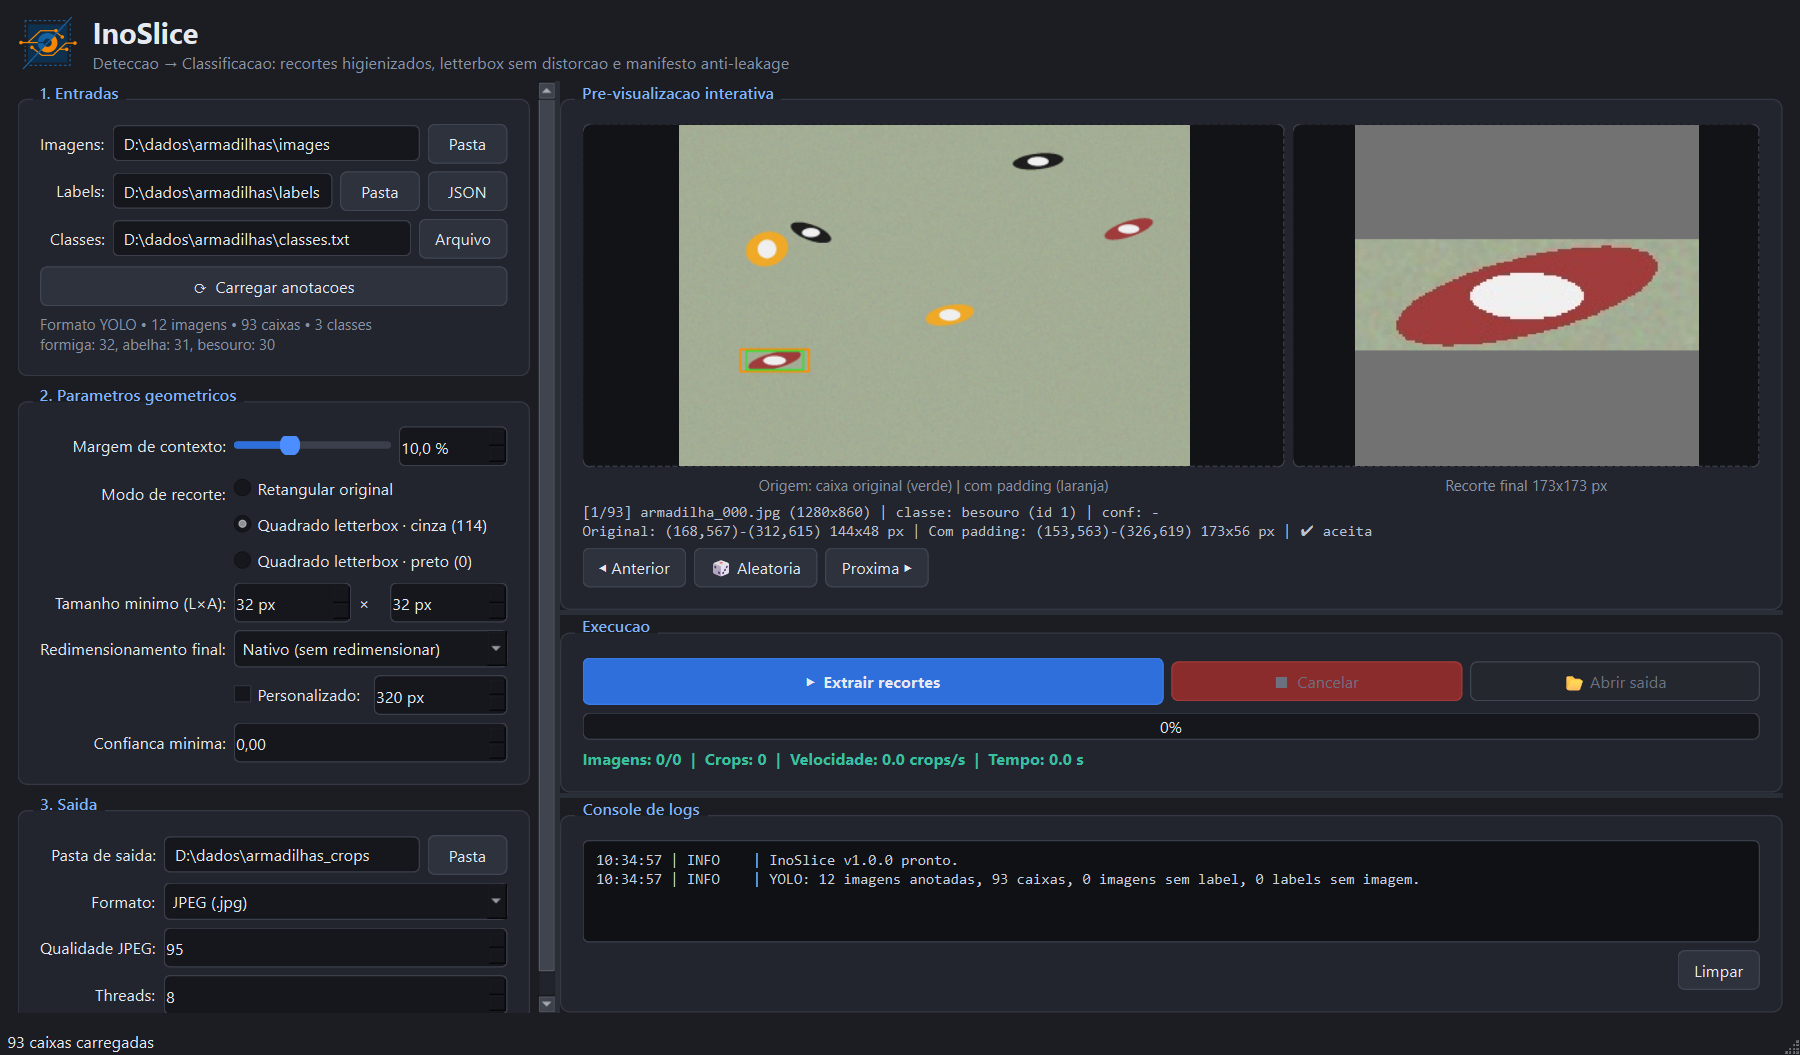
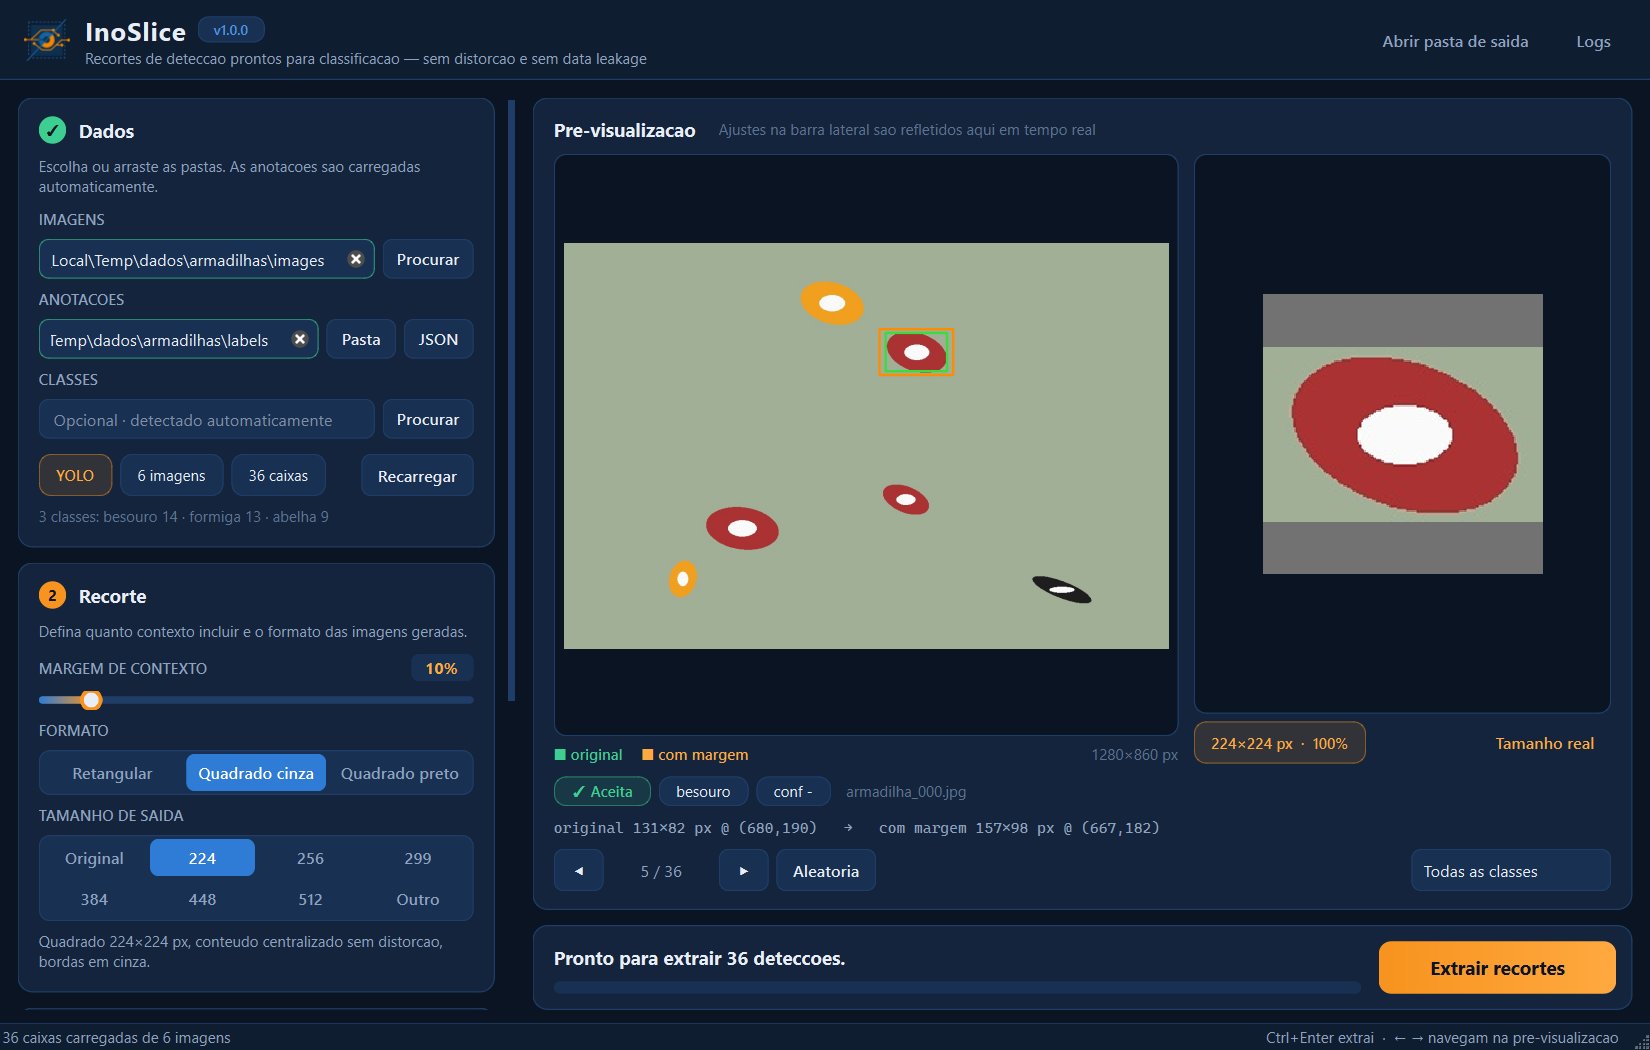
docs: atualiza README e screenshot com a nova interface

diff --git a/README.md b/README.md
@@ -13,7 +13,7 @@ Extrai recortes (crops) de imagens a partir de anotações de detecção de obje
 - **Filtros:** descarta caixas menores que um tamanho mínimo (padrão 32×32 px) e detecções abaixo de uma confiança mínima.
 - **Modos de recorte:** retangular (proporção original) ou quadrado com *letterbox* cinza ou preto, que não distorce o objeto.
 - **Redimensionamento opcional:** 224, 256, 299, 384, 448, 512 px ou um tamanho personalizado.
-- **Pré-visualização:** mostra a caixa original, a caixa com margem e o recorte final exatamente como será salvo.
+- **Pré-visualização:** mostra a caixa original, a caixa com margem e o recorte final em tamanho real, exatamente como será salvo, com filtro por classe.
 - **Rastreabilidade:** um `metadata_manifest.csv` liga cada recorte à imagem de origem (coluna `group_id`). Assim dá para dividir treino e teste sem que recortes da mesma imagem caiam nos dois lados (*data leakage*).
 - **Resumo:** o `harvest_summary.json` traz totais por classe, descartes, tempo de execução e os parâmetros usados.
 - **Desempenho:** o processamento roda em várias threads, mostra o progresso e pode ser cancelado.
@@ -48,9 +48,11 @@ pip install -r requirements.txt
 python main.py
 ```
 
-1. Escolha a pasta de imagens, as labels (pasta YOLO ou arquivo COCO) e, se quiser, o arquivo de classes. Clique em **Carregar anotações**.
-2. Ajuste margem, modo de recorte, tamanho mínimo e redimensionamento, e confira o resultado na pré-visualização.
-3. Escolha a pasta de saída e clique em **Extrair recortes**.
+1. Escolha ou **arraste** a pasta de imagens. A pasta de labels e a pasta de saída são sugeridas automaticamente e as anotações carregam sozinhas.
+2. Ajuste a margem, o formato, o tamanho de saída e os filtros. A pré-visualização mostra o recorte em **tamanho real**, então dá para ver o efeito do redimensionamento.
+3. Clique em **Extrair recortes** (ou `Ctrl+Enter`).
+
+Atalhos: `←`/`→` navegam entre as detecções (com a pré-visualização em foco), `R` sorteia uma detecção, `Ctrl+L` mostra os logs.
 
 ### Linha de comando
 
